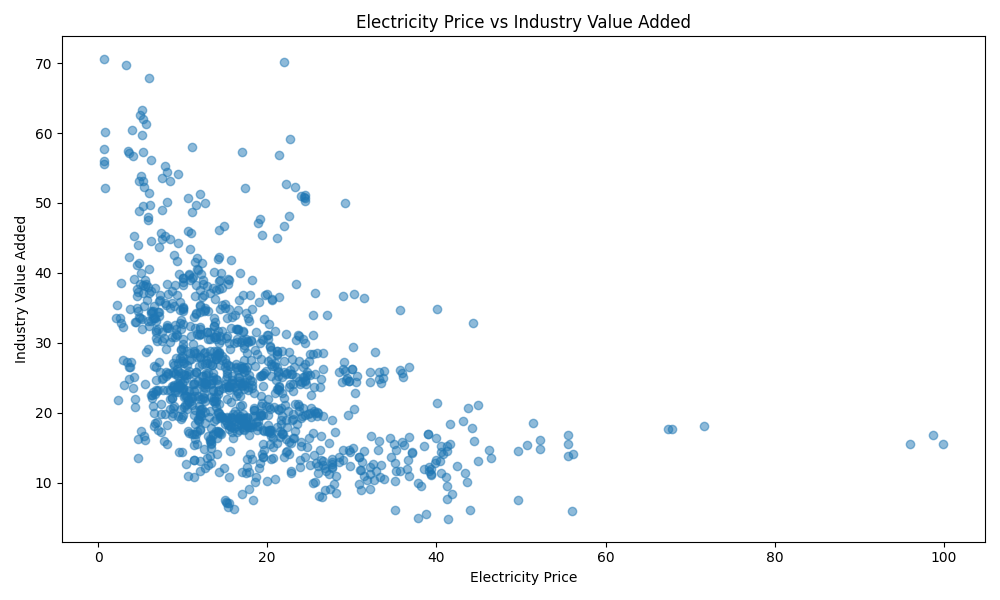
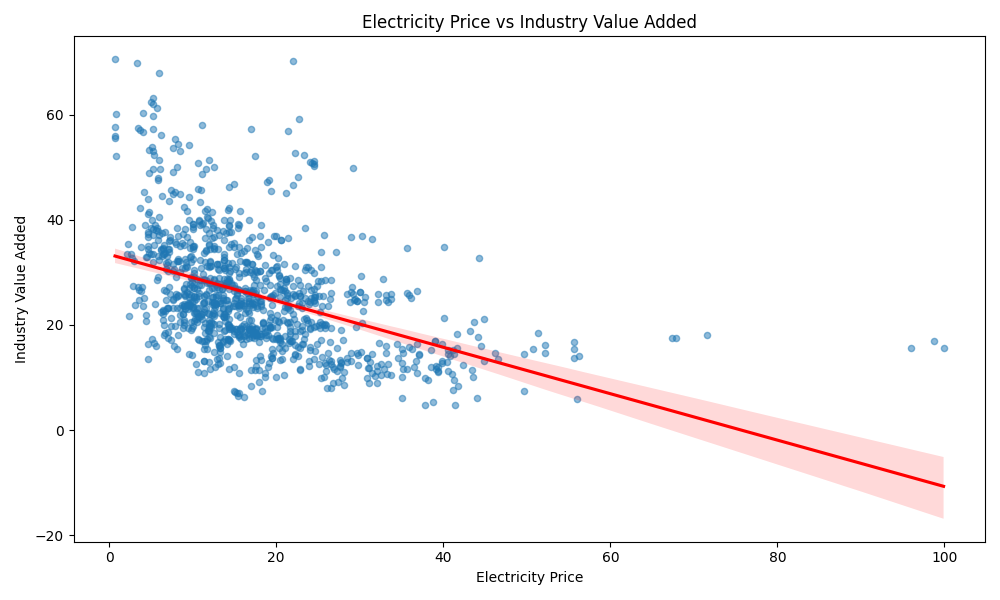
line of best fit added to electricity vs industry scatter graph and automatic regeneration fixed in the code

diff --git a/Source (main)/Analysis.py b/Source (main)/Analysis.py
@@ -3,6 +3,8 @@
 
 import os
 import pandas as pd
+import seaborn as sns
+
 
 
 # ---------------------------------------------------
@@ -262,8 +264,18 @@ def run_section_3(df: pd.DataFrame):
     plt.close()
     
     # ---- Scatter plot: electricity vs industry ----
+    def run_section_3(df: pd.DataFrame):
+        import seaborn as sns
+        import matplotlib.pyplot as plt
+
     plt.figure(figsize=(10,6))
-    plt.scatter(df["electricity_price"], df["industry_value_added"], alpha=0.5)
+    sns.regplot(
+        data=df,
+        x="electricity_price",
+        y="industry_value_added",
+        scatter_kws={"alpha": 0.5, "s": 20},
+        line_kws={"color": "red"}
+    )
     plt.title("Electricity Price vs Industry Value Added")
     plt.xlabel("Electricity Price")
     plt.ylabel("Industry Value Added")
@@ -271,7 +283,7 @@ def run_section_3(df: pd.DataFrame):
     plt.savefig("Outputs/figures/electricity_vs_industry.png")
     plt.close()
     
-    print("Plots saved to Outputs/figures/")
+print("Plots saved to Outputs/figures/")
 
     # -----------------------------
 # ADDITIONAL PLOTS: Histogram & Bar Chart
@@ -316,14 +328,23 @@ if __name__ == "__main__":
     merged_data = pd.read_csv("Processed data/merged_energy_industry.csv")
     print("Dataset loaded successfully.\n")
     
-    # Run all analysis sections
     merged_data = run_section_1(merged_data)
     merged_data = run_section_2(merged_data)
     run_section_3(merged_data)
     run_section_3_extra(merged_data)
 
-    
+    # ---- CONTROL FLAGS ----
+    RUN_SECTION_4 = False   # ← THIS stops regeneration
+    RUN_SECTION_5 = False
+
+    if RUN_SECTION_4:
+        run_section_4(merged_data)
+
+    if RUN_SECTION_5:
+        run_section_5(merged_data)
+
     print("\nAnalysis pipeline completed successfully.")
+
 
 # =========================
 # SECTION 4: CORRELATION & RELATIONSHIPS
@@ -352,6 +373,7 @@ def run_section_4(df: pd.DataFrame):
     
     # Save correlation table
     corr.to_csv("Outputs/tables/correlation_table.csv", index=True)
+
 
     # Pearson correlation test
     pearson_coef, p_value = pearsonr(df["electricity_price"], df["industry_value_added"])
@@ -444,10 +466,7 @@ def run_section_5(df: pd.DataFrame):
 
 
 
-merged_data = pd.read_csv("Processed data/merged_energy_industry.csv")
 
-run_section_4(merged_data)
-run_section_5(merged_data)
 
 
 
